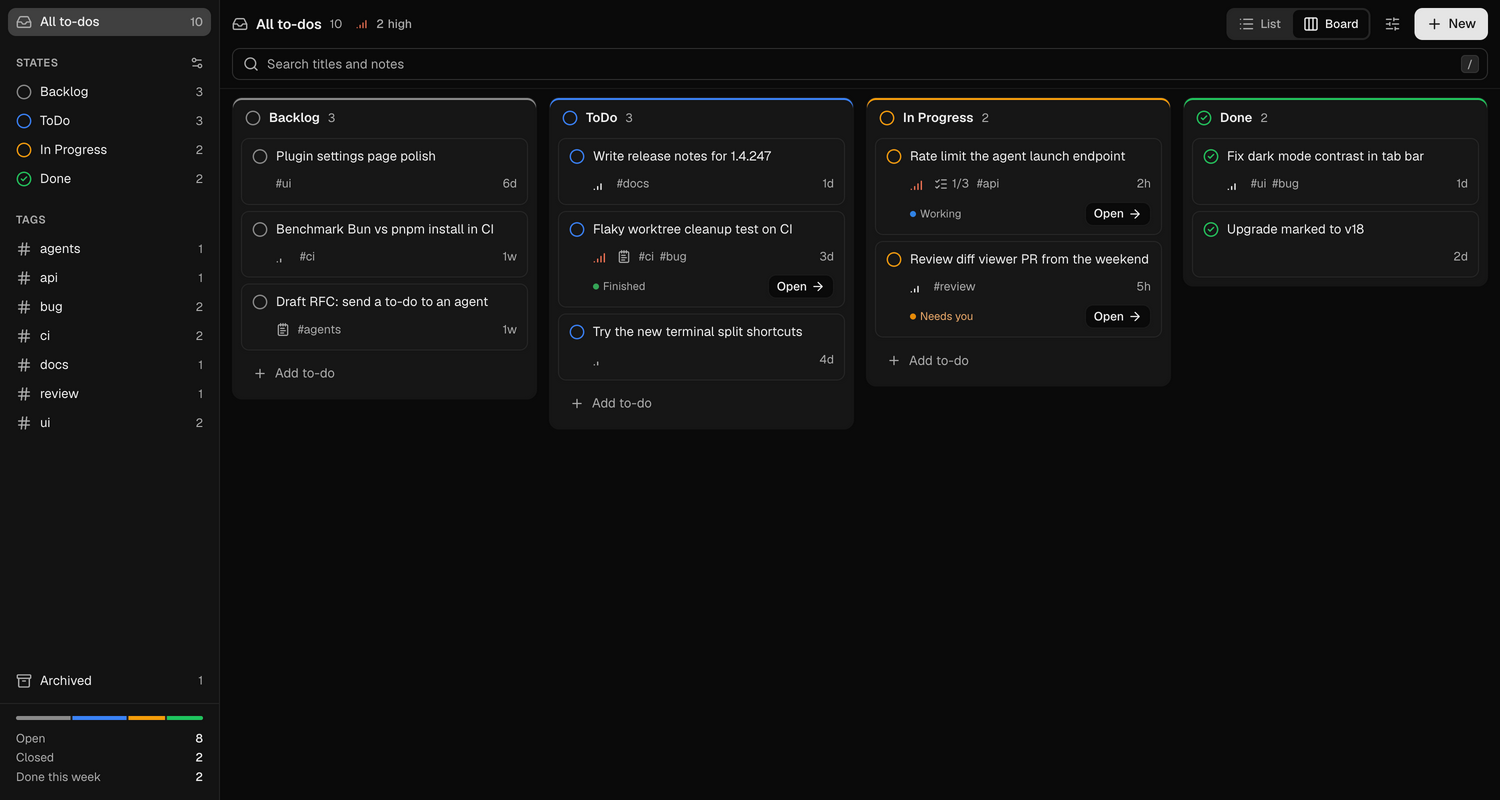
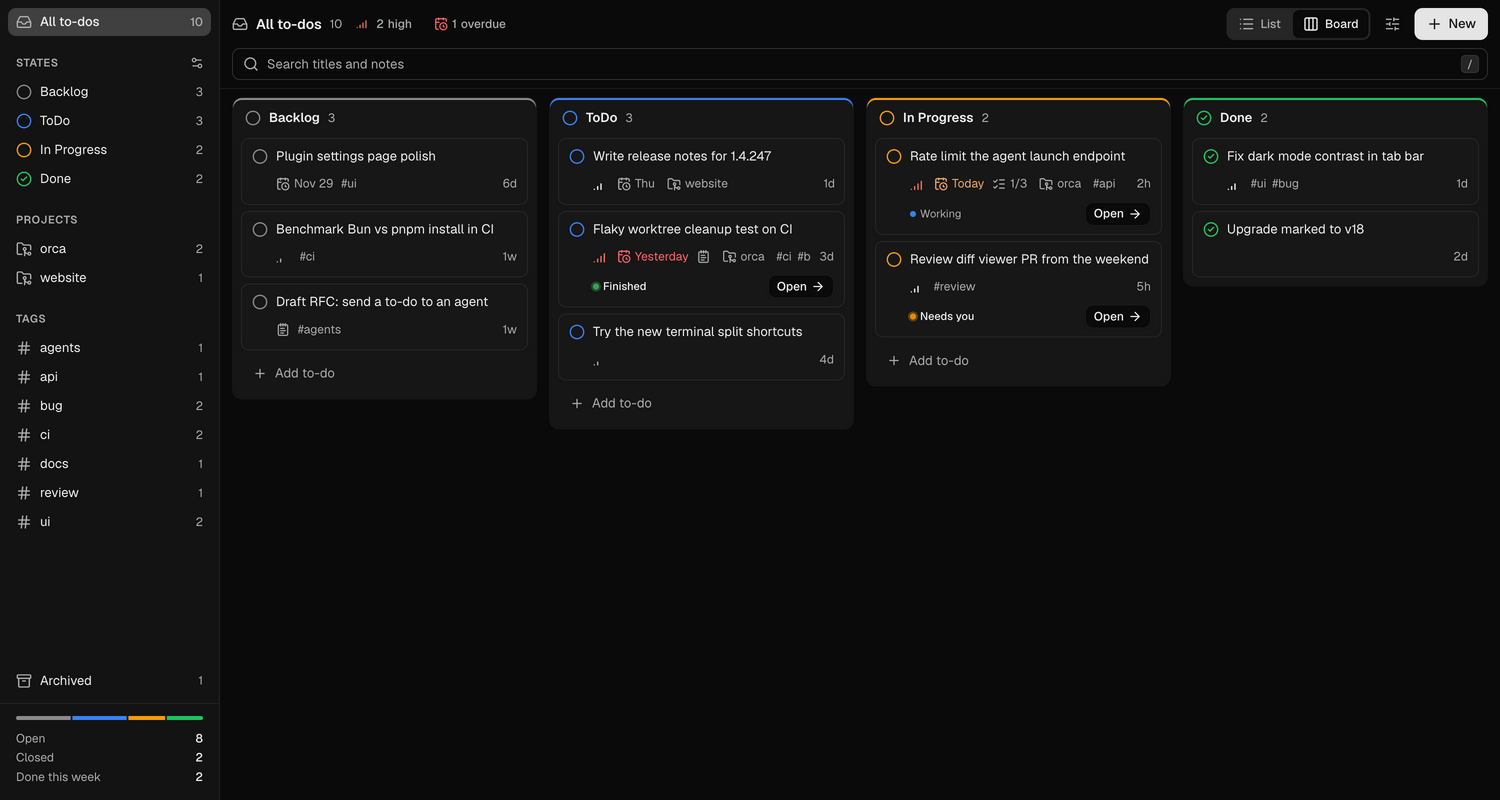
docs(screenshots): show due dates and projects
The cards, rows and navigator now carry due chips, project chips and the
projects scope, so the screenshots and their alt text show them.

diff --git a/README.md b/README.md
@@ -19,7 +19,7 @@ compact list in the sidebar. No account, no sync service, no network.
 
 <picture>
   <source media="(prefers-color-scheme: dark)" srcset="docs/screenshots/tab-board-dark.png" />
-  <img src="docs/screenshots/tab-board-light.png" alt="The board in the center tab: a column for each state, cards with priority, checklist progress, tags, age and agent status" />
+  <img src="docs/screenshots/tab-board-light.png" alt="The board in the center tab: a column for each state, cards with priority, due date, project, checklist progress, tags, age and agent status" />
 </picture>
 
 </div>
@@ -92,9 +92,9 @@ the Orca theme, fonts, and control sizes, so it looks like a part of Orca.
 
 Orca draws these screenshots. To take them again, run `bun run shots` (see [Screenshots](#screenshots-1) under Develop).
 
-| List view (dark)                                                                                             | Sidebar panel (dark)                                                      |
-| ------------------------------------------------------------------------------------------------------------ | ------------------------------------------------------------------------- |
-| ![The center tab in dark mode: navigator, grouped list and details pane](docs/screenshots/tab-list-dark.png) | ![The compact list in the right sidebar](docs/screenshots/panel-dark.png) |
+| List view (dark)                                                                                                                            | Sidebar panel (dark)                                                      |
+| ------------------------------------------------------------------------------------------------------------------------------------------- | ------------------------------------------------------------------------- |
+| ![The center tab in dark mode: navigator with states, projects and tags, grouped list and details pane](docs/screenshots/tab-list-dark.png) | ![The compact list in the right sidebar](docs/screenshots/panel-dark.png) |
 
 ## Requirements
 
